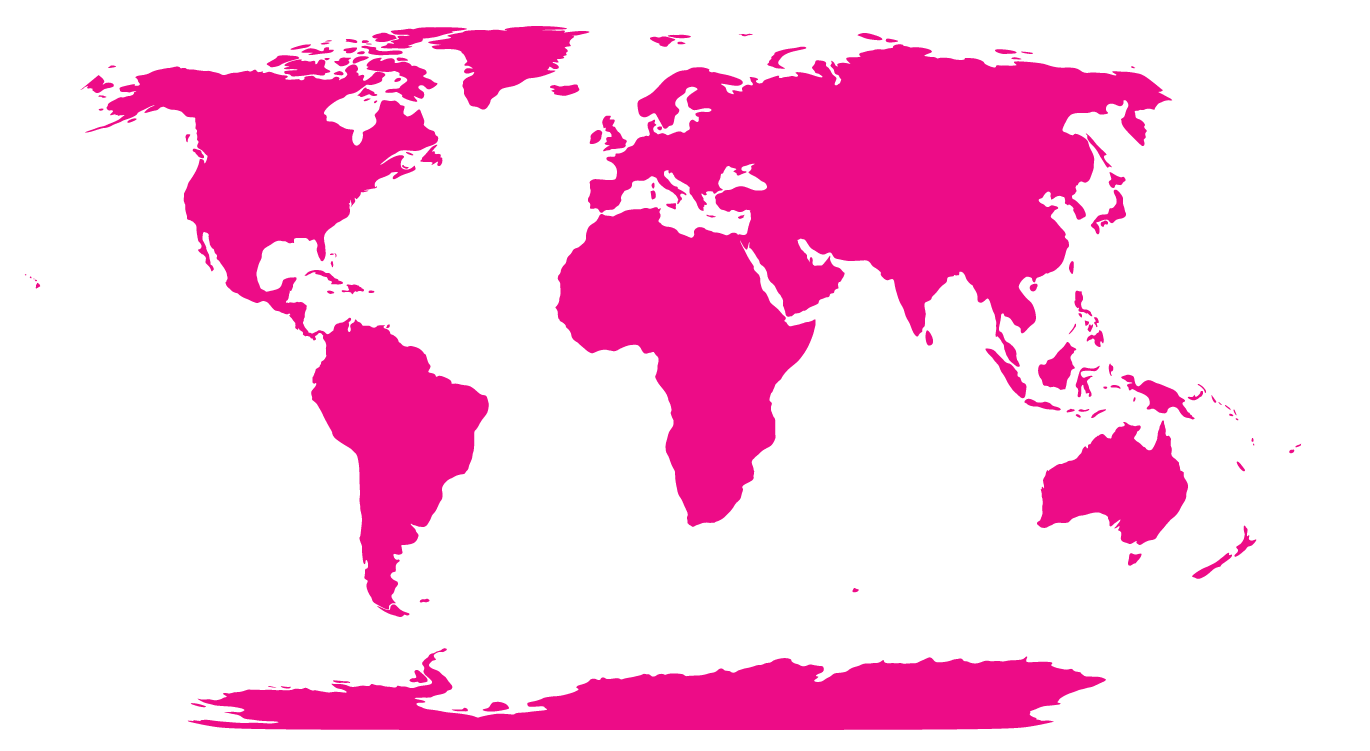
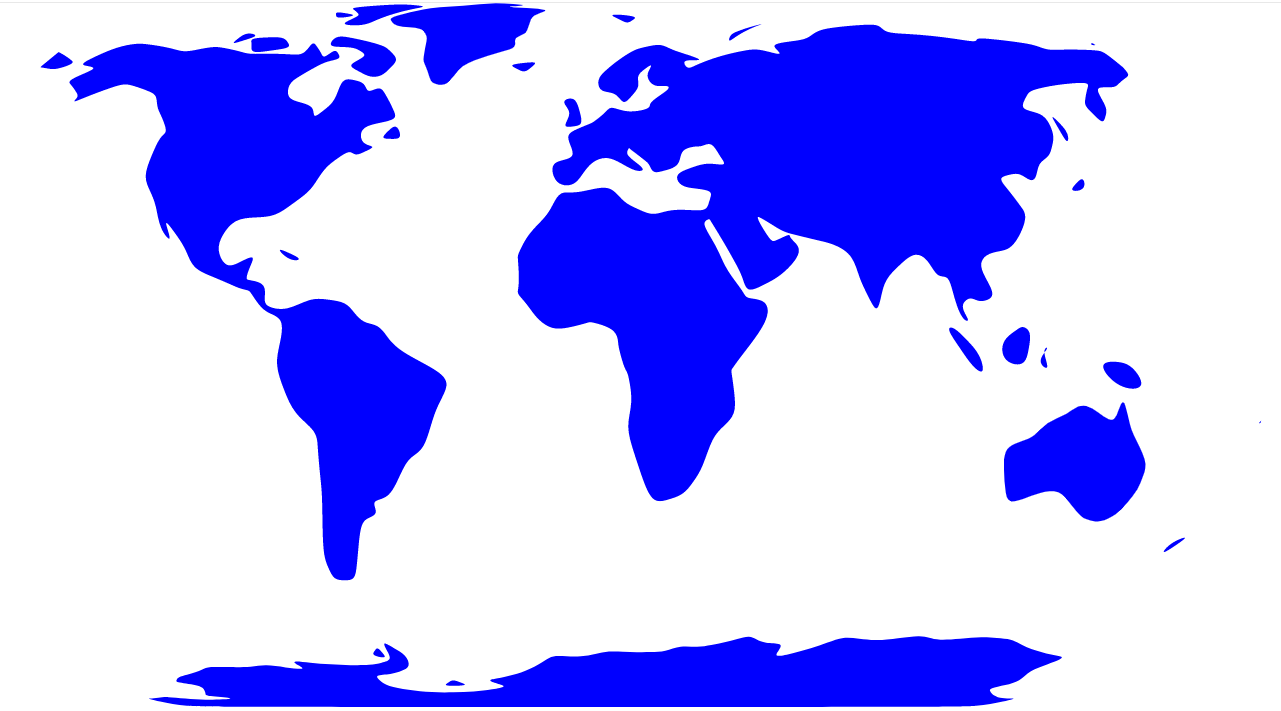
Add summary slide and update the rounded map

diff --git a/art-of-maps.html b/art-of-maps.html
@@ -20,8 +20,6 @@ class: center, middle, inverse, title-slide
 
 
 
-
-
 class: middle, center
 
 # About me
@@ -31,45 +29,32 @@ class: middle, center
 ### Non traditional path to coding from project management
 --
 
-
 ### Self taught and worked as a Data Scientist
 --
 
-
 ### Enspiral Dev Academy
 --
-
 
 ### Engineer at Xero in the App Ecosystem
 --
 
 ### Community organiser: R-Ladies and Xero Talks meetups
-
 --
+
 [ &lt;svg viewBox="0 0 512 512" xmlns="http://www.w3.org/2000/svg" style="height:1em;fill:currentColor;position:relative;display:inline-block;top:.1em;"&gt;  [ comment ]  &lt;path d="M459.37 151.716c.325 4.548.325 9.097.325 13.645 0 138.72-105.583 298.558-298.558 298.558-59.452 0-114.68-17.219-161.137-47.106 8.447.974 16.568 1.299 25.34 1.299 49.055 0 94.213-16.568 130.274-44.832-46.132-.975-84.792-31.188-98.112-72.772 6.498.974 12.995 1.624 19.818 1.624 9.421 0 18.843-1.3 27.614-3.573-48.081-9.747-84.143-51.98-84.143-102.985v-1.299c13.969 7.797 30.214 12.67 47.431 13.319-28.264-18.843-46.781-51.005-46.781-87.391 0-19.492 5.197-37.36 14.294-52.954 51.655 63.675 129.3 105.258 216.365 109.807-1.624-7.797-2.599-15.918-2.599-24.04 0-57.828 46.782-104.934 104.934-104.934 30.213 0 57.502 12.67 76.67 33.137 23.715-4.548 46.456-13.32 66.599-25.34-7.798 24.366-24.366 44.833-46.132 57.827 21.117-2.273 41.584-8.122 60.426-16.243-14.292 20.791-32.161 39.308-52.628 54.253z"&gt;&lt;/path&gt;&lt;/svg&gt; @Kim_Fitter](https://twitter.com/kim_fitter)&lt;br/&gt;
-
 ---
-
 
 class: inverse, center, middle
 
 # Coding is creative 
 
 ---
+
 class: center, middle
 
 ## Auckland City Roads
 
 &lt;img style="border-radius: 50%;" src="https://github.com/kimnewzealand/art-of-maps/blob/master/img/akl-roads.PNG?raw=true" width="950px"/&gt;
-
- 
-
----
-class: center, middle
-
-## DOC Walking Tracks
-
-&lt;img style="border-radius: 50%;" src="https://github.com/kimnewzealand/art-of-maps/blob/master/img/doc-walks.PNG?raw=true" width="950px"/&gt;
 
 ---
 
@@ -80,43 +65,77 @@ class: center, middle
 &lt;img style="border-radius: 50%;" src="https://github.com/kimnewzealand/art-of-maps/blob/master/img/sounds.PNG?raw=true" width="950px"/&gt;
 
 ---
+
 class: center, middle
 
-## The "Blue Line"
+## DOC Walking Tracks
 
-&lt;img style="border-radius: 50%;" src="https://github.com/kimnewzealand/art-of-maps/blob/master/img/blueline.PNG?raw=true" width="950px"/&gt;
+&lt;img style="border-radius: 50%;" src="https://github.com/kimnewzealand/art-of-maps/blob/master/img/doc-walks.PNG?raw=true" width="950px"/&gt;
 
 ---
+
 class: center, middle
 
 ## Missing Island
 
 &lt;img style="border-radius: 50%;" src="https://github.com/kimnewzealand/art-of-maps/blob/master/img/missing_island.PNG?raw=true" width="950px"/&gt;
 
+---
+
+class: center, middle
+
+## The Tube Line
+
+&lt;img style="border-radius: 50%;" src="https://github.com/kimnewzealand/art-of-maps/blob/master/img/blueline.PNG?raw=true" width="950px"/&gt;
 
 ---
+class: center, middle
+
+# So, why create map art?
+
+--
+
+### Learn and enjoy learning
+--
+
+### Prototype, and get feedback
+--
+
+### Connect with communities
+--
+
+### Create a public profile
+
+---
+
 class: inverse, center, middle
 
-# Thank you!
+# The Code
 
-### You can find the map sources here...
+### All maps use open data and open source libraries
 
 .pull-right-wide[
 
 City roads generative tool using Open Street Map data https://anvaka.github.io/city-roads/?q=auckland
 
-Walking tracks with leaflet.js,  DOC open data, Watercolour, tubeline
+All other maps using Observable notebooks
+https://observablehq.com/@kimnewzealand/art-of-maps ]
 
-https://observablehq.com/@kimnewzealand/art-of-maps
+### Presentation
+
+https://artofmaps.netlify.app/ presentation made with [xaringan R 📦](https://github.com/yihui/xaringan#xaringan), which is an R Markdown extension based on the JavaScript library remark.js &lt;br/&gt;  &lt;br/&gt; Code available here https://github.com/kimnewzealand/art-of-maps&lt;br/&gt;&lt;br/&gt;
+
+
+---
+
+class: inverse, center, middle
+
+# Thank you!
 
 
 
-- - - 
-
-https://artofmaps.netlify.app/ presentation made with [xaringan R 📦](https://github.com/yihui/xaringan#xaringan) &lt;br/&gt; Code available here https://github.com/kimnewzealand/art-of-maps&lt;br/&gt;&lt;br/&gt;
 [ &lt;svg viewBox="0 0 512 512" xmlns="http://www.w3.org/2000/svg" style="height:1em;fill:currentColor;position:relative;display:inline-block;top:.1em;"&gt;  [ comment ]  &lt;path d="M459.37 151.716c.325 4.548.325 9.097.325 13.645 0 138.72-105.583 298.558-298.558 298.558-59.452 0-114.68-17.219-161.137-47.106 8.447.974 16.568 1.299 25.34 1.299 49.055 0 94.213-16.568 130.274-44.832-46.132-.975-84.792-31.188-98.112-72.772 6.498.974 12.995 1.624 19.818 1.624 9.421 0 18.843-1.3 27.614-3.573-48.081-9.747-84.143-51.98-84.143-102.985v-1.299c13.969 7.797 30.214 12.67 47.431 13.319-28.264-18.843-46.781-51.005-46.781-87.391 0-19.492 5.197-37.36 14.294-52.954 51.655 63.675 129.3 105.258 216.365 109.807-1.624-7.797-2.599-15.918-2.599-24.04 0-57.828 46.782-104.934 104.934-104.934 30.213 0 57.502 12.67 76.67 33.137 23.715-4.548 46.456-13.32 66.599-25.34-7.798 24.366-24.366 44.833-46.132 57.827 21.117-2.273 41.584-8.122 60.426-16.243-14.292 20.791-32.161 39.308-52.628 54.253z"&gt;&lt;/path&gt;&lt;/svg&gt; @Kim_Fitter](https://twitter.com/kim_fitter)&lt;br/&gt;
 [ &lt;svg viewBox="0 0 496 512" xmlns="http://www.w3.org/2000/svg" style="height:1em;fill:currentColor;position:relative;display:inline-block;top:.1em;"&gt;  [ comment ]  &lt;path d="M165.9 397.4c0 2-2.3 3.6-5.2 3.6-3.3.3-5.6-1.3-5.6-3.6 0-2 2.3-3.6 5.2-3.6 3-.3 5.6 1.3 5.6 3.6zm-31.1-4.5c-.7 2 1.3 4.3 4.3 4.9 2.6 1 5.6 0 6.2-2s-1.3-4.3-4.3-5.2c-2.6-.7-5.5.3-6.2 2.3zm44.2-1.7c-2.9.7-4.9 2.6-4.6 4.9.3 2 2.9 3.3 5.9 2.6 2.9-.7 4.9-2.6 4.6-4.6-.3-1.9-3-3.2-5.9-2.9zM244.8 8C106.1 8 0 113.3 0 252c0 110.9 69.8 205.8 169.5 239.2 12.8 2.3 17.3-5.6 17.3-12.1 0-6.2-.3-40.4-.3-61.4 0 0-70 15-84.7-29.8 0 0-11.4-29.1-27.8-36.6 0 0-22.9-15.7 1.6-15.4 0 0 24.9 2 38.6 25.8 21.9 38.6 58.6 27.5 72.9 20.9 2.3-16 8.8-27.1 16-33.7-55.9-6.2-112.3-14.3-112.3-110.5 0-27.5 7.6-41.3 23.6-58.9-2.6-6.5-11.1-33.3 2.6-67.9 20.9-6.5 69 27 69 27 20-5.6 41.5-8.5 62.8-8.5s42.8 2.9 62.8 8.5c0 0 48.1-33.6 69-27 13.7 34.7 5.2 61.4 2.6 67.9 16 17.7 25.8 31.5 25.8 58.9 0 96.5-58.9 104.2-114.8 110.5 9.2 7.9 17 22.9 17 46.4 0 33.7-.3 75.4-.3 83.6 0 6.5 4.6 14.4 17.3 12.1C428.2 457.8 496 362.9 496 252 496 113.3 383.5 8 244.8 8zM97.2 352.9c-1.3 1-1 3.3.7 5.2 1.6 1.6 3.9 2.3 5.2 1 1.3-1 1-3.3-.7-5.2-1.6-1.6-3.9-2.3-5.2-1zm-10.8-8.1c-.7 1.3.3 2.9 2.3 3.9 1.6 1 3.6.7 4.3-.7.7-1.3-.3-2.9-2.3-3.9-2-.6-3.6-.3-4.3.7zm32.4 35.6c-1.6 1.3-1 4.3 1.3 6.2 2.3 2.3 5.2 2.6 6.5 1 1.3-1.3.7-4.3-1.3-6.2-2.2-2.3-5.2-2.6-6.5-1zm-11.4-14.7c-1.6 1-1.6 3.6 0 5.9 1.6 2.3 4.3 3.3 5.6 2.3 1.6-1.3 1.6-3.9 0-6.2-1.4-2.3-4-3.3-5.6-2z"&gt;&lt;/path&gt;&lt;/svg&gt; kimnewzealand.github.io](https://github.com/kimnewzealand)&lt;br/&gt;
-]
     </textarea>
 <style data-target="print-only">@media screen {.remark-slide-container{display:block;}.remark-slide-scaler{box-shadow:none;}}</style>
 <script src="https://remarkjs.com/downloads/remark-latest.min.js"></script>

diff --git a/index.html b/index.html
@@ -20,8 +20,6 @@ class: center, middle, inverse, title-slide
 
 
 
-
-
 class: middle, center
 
 # About me
@@ -31,45 +29,32 @@ class: middle, center
 ### Non traditional path to coding from project management
 --
 
-
 ### Self taught and worked as a Data Scientist
 --
 
-
 ### Enspiral Dev Academy
 --
-
 
 ### Engineer at Xero in the App Ecosystem
 --
 
 ### Community organiser: R-Ladies and Xero Talks meetups
-
 --
+
 [ &lt;svg viewBox="0 0 512 512" xmlns="http://www.w3.org/2000/svg" style="height:1em;fill:currentColor;position:relative;display:inline-block;top:.1em;"&gt;  [ comment ]  &lt;path d="M459.37 151.716c.325 4.548.325 9.097.325 13.645 0 138.72-105.583 298.558-298.558 298.558-59.452 0-114.68-17.219-161.137-47.106 8.447.974 16.568 1.299 25.34 1.299 49.055 0 94.213-16.568 130.274-44.832-46.132-.975-84.792-31.188-98.112-72.772 6.498.974 12.995 1.624 19.818 1.624 9.421 0 18.843-1.3 27.614-3.573-48.081-9.747-84.143-51.98-84.143-102.985v-1.299c13.969 7.797 30.214 12.67 47.431 13.319-28.264-18.843-46.781-51.005-46.781-87.391 0-19.492 5.197-37.36 14.294-52.954 51.655 63.675 129.3 105.258 216.365 109.807-1.624-7.797-2.599-15.918-2.599-24.04 0-57.828 46.782-104.934 104.934-104.934 30.213 0 57.502 12.67 76.67 33.137 23.715-4.548 46.456-13.32 66.599-25.34-7.798 24.366-24.366 44.833-46.132 57.827 21.117-2.273 41.584-8.122 60.426-16.243-14.292 20.791-32.161 39.308-52.628 54.253z"&gt;&lt;/path&gt;&lt;/svg&gt; @Kim_Fitter](https://twitter.com/kim_fitter)&lt;br/&gt;
-
 ---
-
 
 class: inverse, center, middle
 
 # Coding is creative 
 
 ---
+
 class: center, middle
 
 ## Auckland City Roads
 
 &lt;img style="border-radius: 50%;" src="https://github.com/kimnewzealand/art-of-maps/blob/master/img/akl-roads.PNG?raw=true" width="950px"/&gt;
-
- 
-
----
-class: center, middle
-
-## DOC Walking Tracks
-
-&lt;img style="border-radius: 50%;" src="https://github.com/kimnewzealand/art-of-maps/blob/master/img/doc-walks.PNG?raw=true" width="950px"/&gt;
 
 ---
 
@@ -80,43 +65,77 @@ class: center, middle
 &lt;img style="border-radius: 50%;" src="https://github.com/kimnewzealand/art-of-maps/blob/master/img/sounds.PNG?raw=true" width="950px"/&gt;
 
 ---
+
 class: center, middle
 
-## The "Blue Line"
+## DOC Walking Tracks
 
-&lt;img style="border-radius: 50%;" src="https://github.com/kimnewzealand/art-of-maps/blob/master/img/blueline.PNG?raw=true" width="950px"/&gt;
+&lt;img style="border-radius: 50%;" src="https://github.com/kimnewzealand/art-of-maps/blob/master/img/doc-walks.PNG?raw=true" width="950px"/&gt;
 
 ---
+
 class: center, middle
 
 ## Missing Island
 
 &lt;img style="border-radius: 50%;" src="https://github.com/kimnewzealand/art-of-maps/blob/master/img/missing_island.PNG?raw=true" width="950px"/&gt;
 
+---
+
+class: center, middle
+
+## The Tube Line
+
+&lt;img style="border-radius: 50%;" src="https://github.com/kimnewzealand/art-of-maps/blob/master/img/blueline.PNG?raw=true" width="950px"/&gt;
 
 ---
+class: center, middle
+
+# So, why create map art?
+
+--
+
+### Learn and enjoy learning
+--
+
+### Prototype, and get feedback
+--
+
+### Connect with communities
+--
+
+### Create a public profile
+
+---
+
 class: inverse, center, middle
 
-# Thank you!
+# The Code
 
-### You can find the map sources here...
+### All maps use open data and open source libraries
 
 .pull-right-wide[
 
 City roads generative tool using Open Street Map data https://anvaka.github.io/city-roads/?q=auckland
 
-Walking tracks with leaflet.js,  DOC open data, Watercolour, tubeline
+All other maps using Observable notebooks
+https://observablehq.com/@kimnewzealand/art-of-maps ]
 
-https://observablehq.com/@kimnewzealand/art-of-maps
+### Presentation
+
+https://artofmaps.netlify.app/ presentation made with [xaringan R 📦](https://github.com/yihui/xaringan#xaringan), which is an R Markdown extension based on the JavaScript library remark.js &lt;br/&gt;  &lt;br/&gt; Code available here https://github.com/kimnewzealand/art-of-maps&lt;br/&gt;&lt;br/&gt;
+
+
+---
+
+class: inverse, center, middle
+
+# Thank you!
 
 
 
-- - - 
-
-https://artofmaps.netlify.app/ presentation made with [xaringan R 📦](https://github.com/yihui/xaringan#xaringan) &lt;br/&gt; Code available here https://github.com/kimnewzealand/art-of-maps&lt;br/&gt;&lt;br/&gt;
 [ &lt;svg viewBox="0 0 512 512" xmlns="http://www.w3.org/2000/svg" style="height:1em;fill:currentColor;position:relative;display:inline-block;top:.1em;"&gt;  [ comment ]  &lt;path d="M459.37 151.716c.325 4.548.325 9.097.325 13.645 0 138.72-105.583 298.558-298.558 298.558-59.452 0-114.68-17.219-161.137-47.106 8.447.974 16.568 1.299 25.34 1.299 49.055 0 94.213-16.568 130.274-44.832-46.132-.975-84.792-31.188-98.112-72.772 6.498.974 12.995 1.624 19.818 1.624 9.421 0 18.843-1.3 27.614-3.573-48.081-9.747-84.143-51.98-84.143-102.985v-1.299c13.969 7.797 30.214 12.67 47.431 13.319-28.264-18.843-46.781-51.005-46.781-87.391 0-19.492 5.197-37.36 14.294-52.954 51.655 63.675 129.3 105.258 216.365 109.807-1.624-7.797-2.599-15.918-2.599-24.04 0-57.828 46.782-104.934 104.934-104.934 30.213 0 57.502 12.67 76.67 33.137 23.715-4.548 46.456-13.32 66.599-25.34-7.798 24.366-24.366 44.833-46.132 57.827 21.117-2.273 41.584-8.122 60.426-16.243-14.292 20.791-32.161 39.308-52.628 54.253z"&gt;&lt;/path&gt;&lt;/svg&gt; @Kim_Fitter](https://twitter.com/kim_fitter)&lt;br/&gt;
 [ &lt;svg viewBox="0 0 496 512" xmlns="http://www.w3.org/2000/svg" style="height:1em;fill:currentColor;position:relative;display:inline-block;top:.1em;"&gt;  [ comment ]  &lt;path d="M165.9 397.4c0 2-2.3 3.6-5.2 3.6-3.3.3-5.6-1.3-5.6-3.6 0-2 2.3-3.6 5.2-3.6 3-.3 5.6 1.3 5.6 3.6zm-31.1-4.5c-.7 2 1.3 4.3 4.3 4.9 2.6 1 5.6 0 6.2-2s-1.3-4.3-4.3-5.2c-2.6-.7-5.5.3-6.2 2.3zm44.2-1.7c-2.9.7-4.9 2.6-4.6 4.9.3 2 2.9 3.3 5.9 2.6 2.9-.7 4.9-2.6 4.6-4.6-.3-1.9-3-3.2-5.9-2.9zM244.8 8C106.1 8 0 113.3 0 252c0 110.9 69.8 205.8 169.5 239.2 12.8 2.3 17.3-5.6 17.3-12.1 0-6.2-.3-40.4-.3-61.4 0 0-70 15-84.7-29.8 0 0-11.4-29.1-27.8-36.6 0 0-22.9-15.7 1.6-15.4 0 0 24.9 2 38.6 25.8 21.9 38.6 58.6 27.5 72.9 20.9 2.3-16 8.8-27.1 16-33.7-55.9-6.2-112.3-14.3-112.3-110.5 0-27.5 7.6-41.3 23.6-58.9-2.6-6.5-11.1-33.3 2.6-67.9 20.9-6.5 69 27 69 27 20-5.6 41.5-8.5 62.8-8.5s42.8 2.9 62.8 8.5c0 0 48.1-33.6 69-27 13.7 34.7 5.2 61.4 2.6 67.9 16 17.7 25.8 31.5 25.8 58.9 0 96.5-58.9 104.2-114.8 110.5 9.2 7.9 17 22.9 17 46.4 0 33.7-.3 75.4-.3 83.6 0 6.5 4.6 14.4 17.3 12.1C428.2 457.8 496 362.9 496 252 496 113.3 383.5 8 244.8 8zM97.2 352.9c-1.3 1-1 3.3.7 5.2 1.6 1.6 3.9 2.3 5.2 1 1.3-1 1-3.3-.7-5.2-1.6-1.6-3.9-2.3-5.2-1zm-10.8-8.1c-.7 1.3.3 2.9 2.3 3.9 1.6 1 3.6.7 4.3-.7.7-1.3-.3-2.9-2.3-3.9-2-.6-3.6-.3-4.3.7zm32.4 35.6c-1.6 1.3-1 4.3 1.3 6.2 2.3 2.3 5.2 2.6 6.5 1 1.3-1.3.7-4.3-1.3-6.2-2.2-2.3-5.2-2.6-6.5-1zm-11.4-14.7c-1.6 1-1.6 3.6 0 5.9 1.6 2.3 4.3 3.3 5.6 2.3 1.6-1.3 1.6-3.9 0-6.2-1.4-2.3-4-3.3-5.6-2z"&gt;&lt;/path&gt;&lt;/svg&gt; kimnewzealand.github.io](https://github.com/kimnewzealand)&lt;br/&gt;
-]
     </textarea>
 <style data-target="print-only">@media screen {.remark-slide-container{display:block;}.remark-slide-scaler{box-shadow:none;}}</style>
 <script src="https://remarkjs.com/downloads/remark-latest.min.js"></script>
